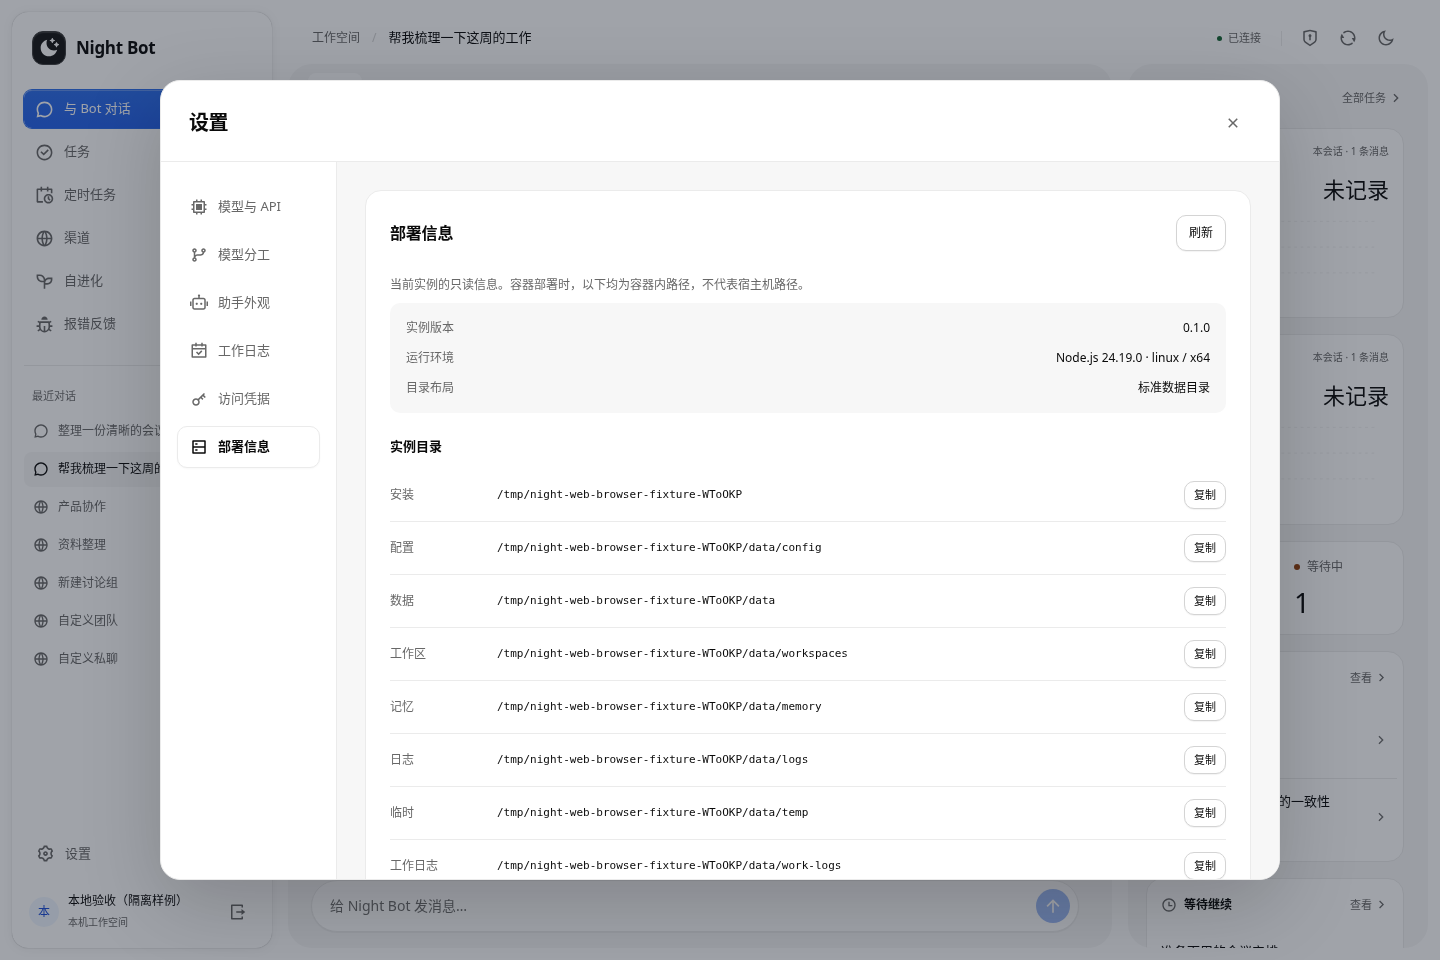
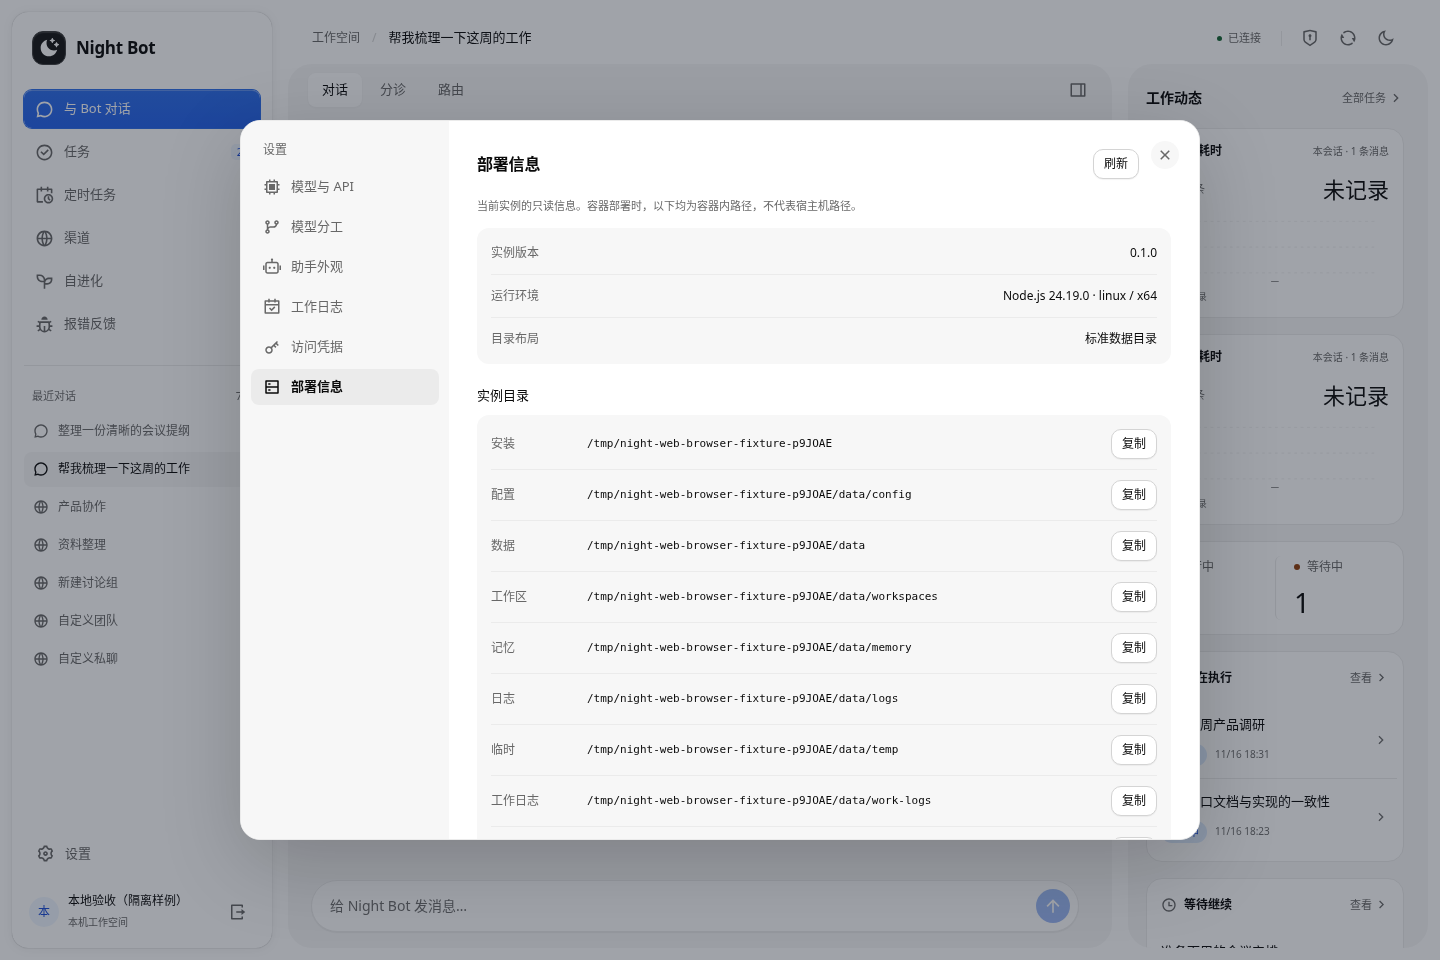
fix(web): keep grouped settings dialog accessible and refresh previews

diff --git a/packages/web-console/src/components/SettingsModal.tsx b/packages/web-console/src/components/SettingsModal.tsx
@@ -5,5 +5,5 @@ export function SettingsModal({onClose}:{onClose:()=>void}){
  const dialog=useRef<HTMLDialogElement>(null),request=useRef<()=>void>(()=>{});
  const register=useCallback((handler:()=>void)=>{request.current=handler},[]);
  useEffect(()=>{const element=dialog.current!,previous=document.activeElement;const y=window.scrollY;const overflow=document.body.style.overflow;document.body.style.overflow='hidden';element.showModal();return()=>{element.close();document.body.style.overflow=overflow;if(previous instanceof HTMLElement&&previous.isConnected)previous.focus({preventScroll:true});if(window.scrollY!==y)window.scrollTo({top:y})}},[]);
- return <dialog ref={dialog} className="settings-modal" aria-modal="true" aria-labelledby="settings-modal-title" onKeyDown={event=>{if(event.key!=='Tab'||(event.target as Element).closest('dialog')!==dialog.current)return;const items=[...dialog.current!.querySelectorAll<HTMLElement>('button,input,select,textarea,a[href],[tabindex]')].filter(el=>el.tabIndex>=0&&!el.matches(':disabled')&&el.getClientRects().length);const first=items[0],last=items.at(-1);if(event.shiftKey&&document.activeElement===first){event.preventDefault();last?.focus()}else if(!event.shiftKey&&document.activeElement===last){event.preventDefault();first?.focus()}}} onCancel={event=>{event.preventDefault();request.current()}} onClick={event=>{if(event.target===dialog.current){const r=dialog.current.getBoundingClientRect();if(event.clientX<r.left||event.clientX>r.right||event.clientY<r.top||event.clientY>r.bottom)request.current()}}}><ReadErrorScope><SettingsPage onClose={onClose} registerClose={register}/><ReadErrorOutlet/></ReadErrorScope></dialog>
+ return <dialog ref={dialog} className="settings-modal" aria-modal="true" aria-label="设置" onKeyDown={event=>{if(event.key!=='Tab'||(event.target as Element).closest('dialog')!==dialog.current)return;const items=[...dialog.current!.querySelectorAll<HTMLElement>('button,input,select,textarea,a[href],[tabindex]')].filter(el=>el.tabIndex>=0&&!el.matches(':disabled')&&el.getClientRects().length);const first=items[0],last=items.at(-1);if(event.shiftKey&&document.activeElement===first){event.preventDefault();last?.focus()}else if(!event.shiftKey&&document.activeElement===last){event.preventDefault();first?.focus()}}} onCancel={event=>{event.preventDefault();request.current()}} onClick={event=>{if(event.target===dialog.current){const r=dialog.current.getBoundingClientRect();if(event.clientX<r.left||event.clientX>r.right||event.clientY<r.top||event.clientY>r.bottom)request.current()}}}><ReadErrorScope><SettingsPage onClose={onClose} registerClose={register}/><ReadErrorOutlet/></ReadErrorScope></dialog>
 }

diff --git a/packages/web-console/src/styles/settings-workspace.css b/packages/web-console/src/styles/settings-workspace.css
@@ -67,9 +67,6 @@
 .settings-modal { position:fixed;inset:0;width:min(1120px,calc(100vw - 80px));height:min(800px,calc(100dvh - 80px));max-width:none;max-height:none;margin:auto;padding:0;border:1px solid var(--board-border);border-radius:20px;background:var(--board-surface);color:var(--board-text);box-shadow:0 24px 80px #00000030;overflow:hidden; }
 .settings-modal::backdrop {background:#11182766;}
 .settings-modal .settings-workspace {display:flex;flex-direction:column;width:100%;height:100%;max-width:none;padding:0;margin:0;}
-.settings-modal-heading {display:flex;align-items:center;justify-content:space-between;flex-shrink:0;padding:24px 28px 20px;border-bottom:1px solid var(--board-border);}
-.settings-modal-heading h2 {margin:0;font-size:20px;letter-spacing:-.4px;font-weight:600;}
-.settings-modal-heading p {margin:5px 0 0;color:var(--board-muted);font-size:12px;}
 .settings-modal .settings-workspace-layout {flex:1;min-height:0;grid-template-columns:176px minmax(0,1fr);gap:0;align-items:stretch;}
 .settings-modal .settings-navigation {position:static;overflow-y:auto;padding:24px 16px;border-right:1px solid var(--board-border);}
 .settings-modal .settings-panels {min-height:0;overflow:auto;padding:28px;background:var(--board-panel);overscroll-behavior:contain;}
@@ -91,7 +88,6 @@
 .deployment-copy-status {font-size:12px;color:var(--board-muted);margin:12px 0 0;}
 @media(max-width:760px) {
  .settings-modal {width:100vw;height:100dvh;border:0;border-radius:0;}
- .settings-modal-heading {padding:18px 16px;}
  .settings-modal .settings-workspace-layout {display:flex;flex-direction:column;}
  .settings-modal .settings-navigation {flex-shrink:0;overflow-x:auto;overflow-y:hidden;flex-direction:row;padding:12px 16px;border-right:0;border-bottom:1px solid var(--board-border);}
  .settings-modal .settings-panels {flex:1;padding:16px;}

diff --git a/packages/web-console/test/settings-modal.spec.ts b/packages/web-console/test/settings-modal.spec.ts
@@ -58,3 +58,13 @@ test('保存中与未知回执阻止关闭，不重复写入',async({page})=>{
   release();await expect(page.getByText('无法确认最新保存结果。 草稿已保留，不会自动重试。请重新读取路由配置并核对。',{exact:true})).toBeVisible();await page.keyboard.press('Escape');await expect(page.locator('.settings-modal')).toBeVisible();await expect(page.locator('dialog.settings-confirm')).toHaveCount(0);expect(writes).toBe(1);
  }finally{release()}
 });
+
+test('设置首次加载与读取失败始终有稳定弹窗名称',async({page})=>{
+ await login(page);let release!:()=>void;const gate=new Promise<void>(resolve=>release=resolve);
+ await page.route('**/api/settings',async route=>{await gate;await route.fulfill({status:503,json:{error:{code:'SETTINGS_UNAVAILABLE'}}})});
+ try{
+  await open(page);const dialog=page.getByRole('dialog',{name:'设置',exact:true});await expect(dialog).toHaveAccessibleName('设置');await expect(dialog.locator('.settings-sidebar')).toHaveCount(0);
+  release();await expect(dialog.getByRole('alert')).toBeVisible();await expect(dialog).toHaveAccessibleName('设置');await expect(dialog.getByRole('alert')).toHaveCount(1);
+  await dialog.getByRole('button',{name:'关闭设置',exact:true}).click();await expect(dialog).toHaveCount(0);
+ }finally{release()}
+});
